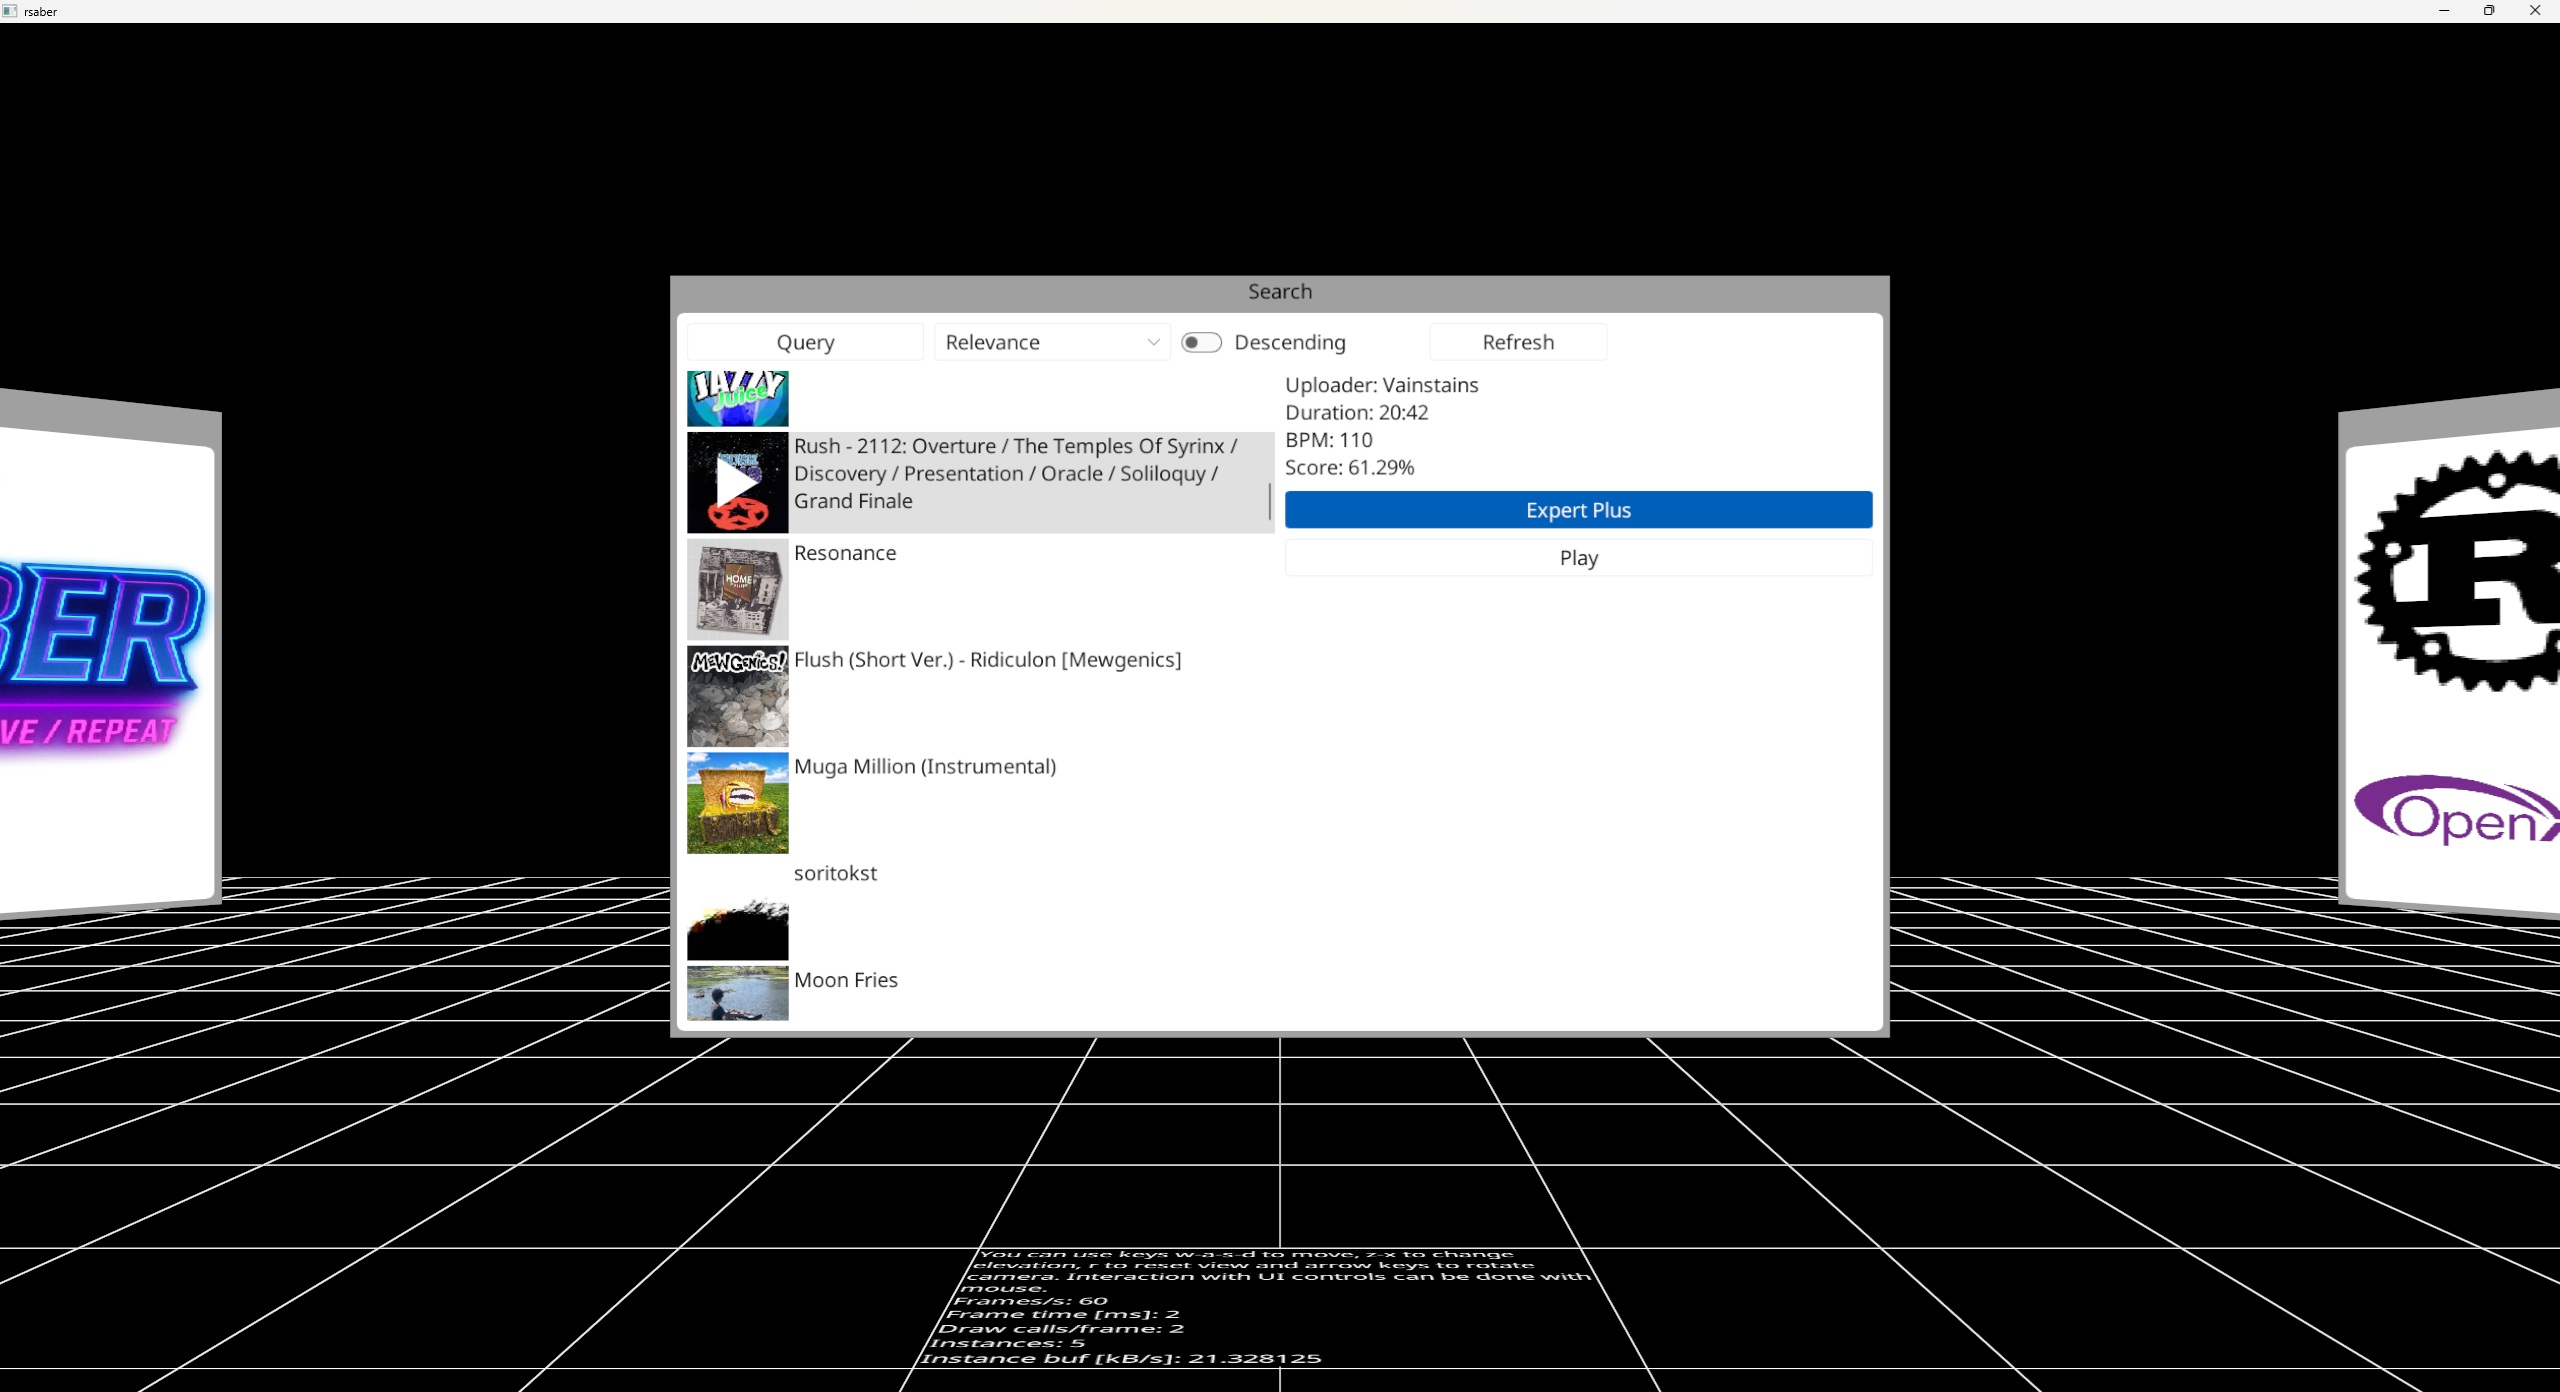
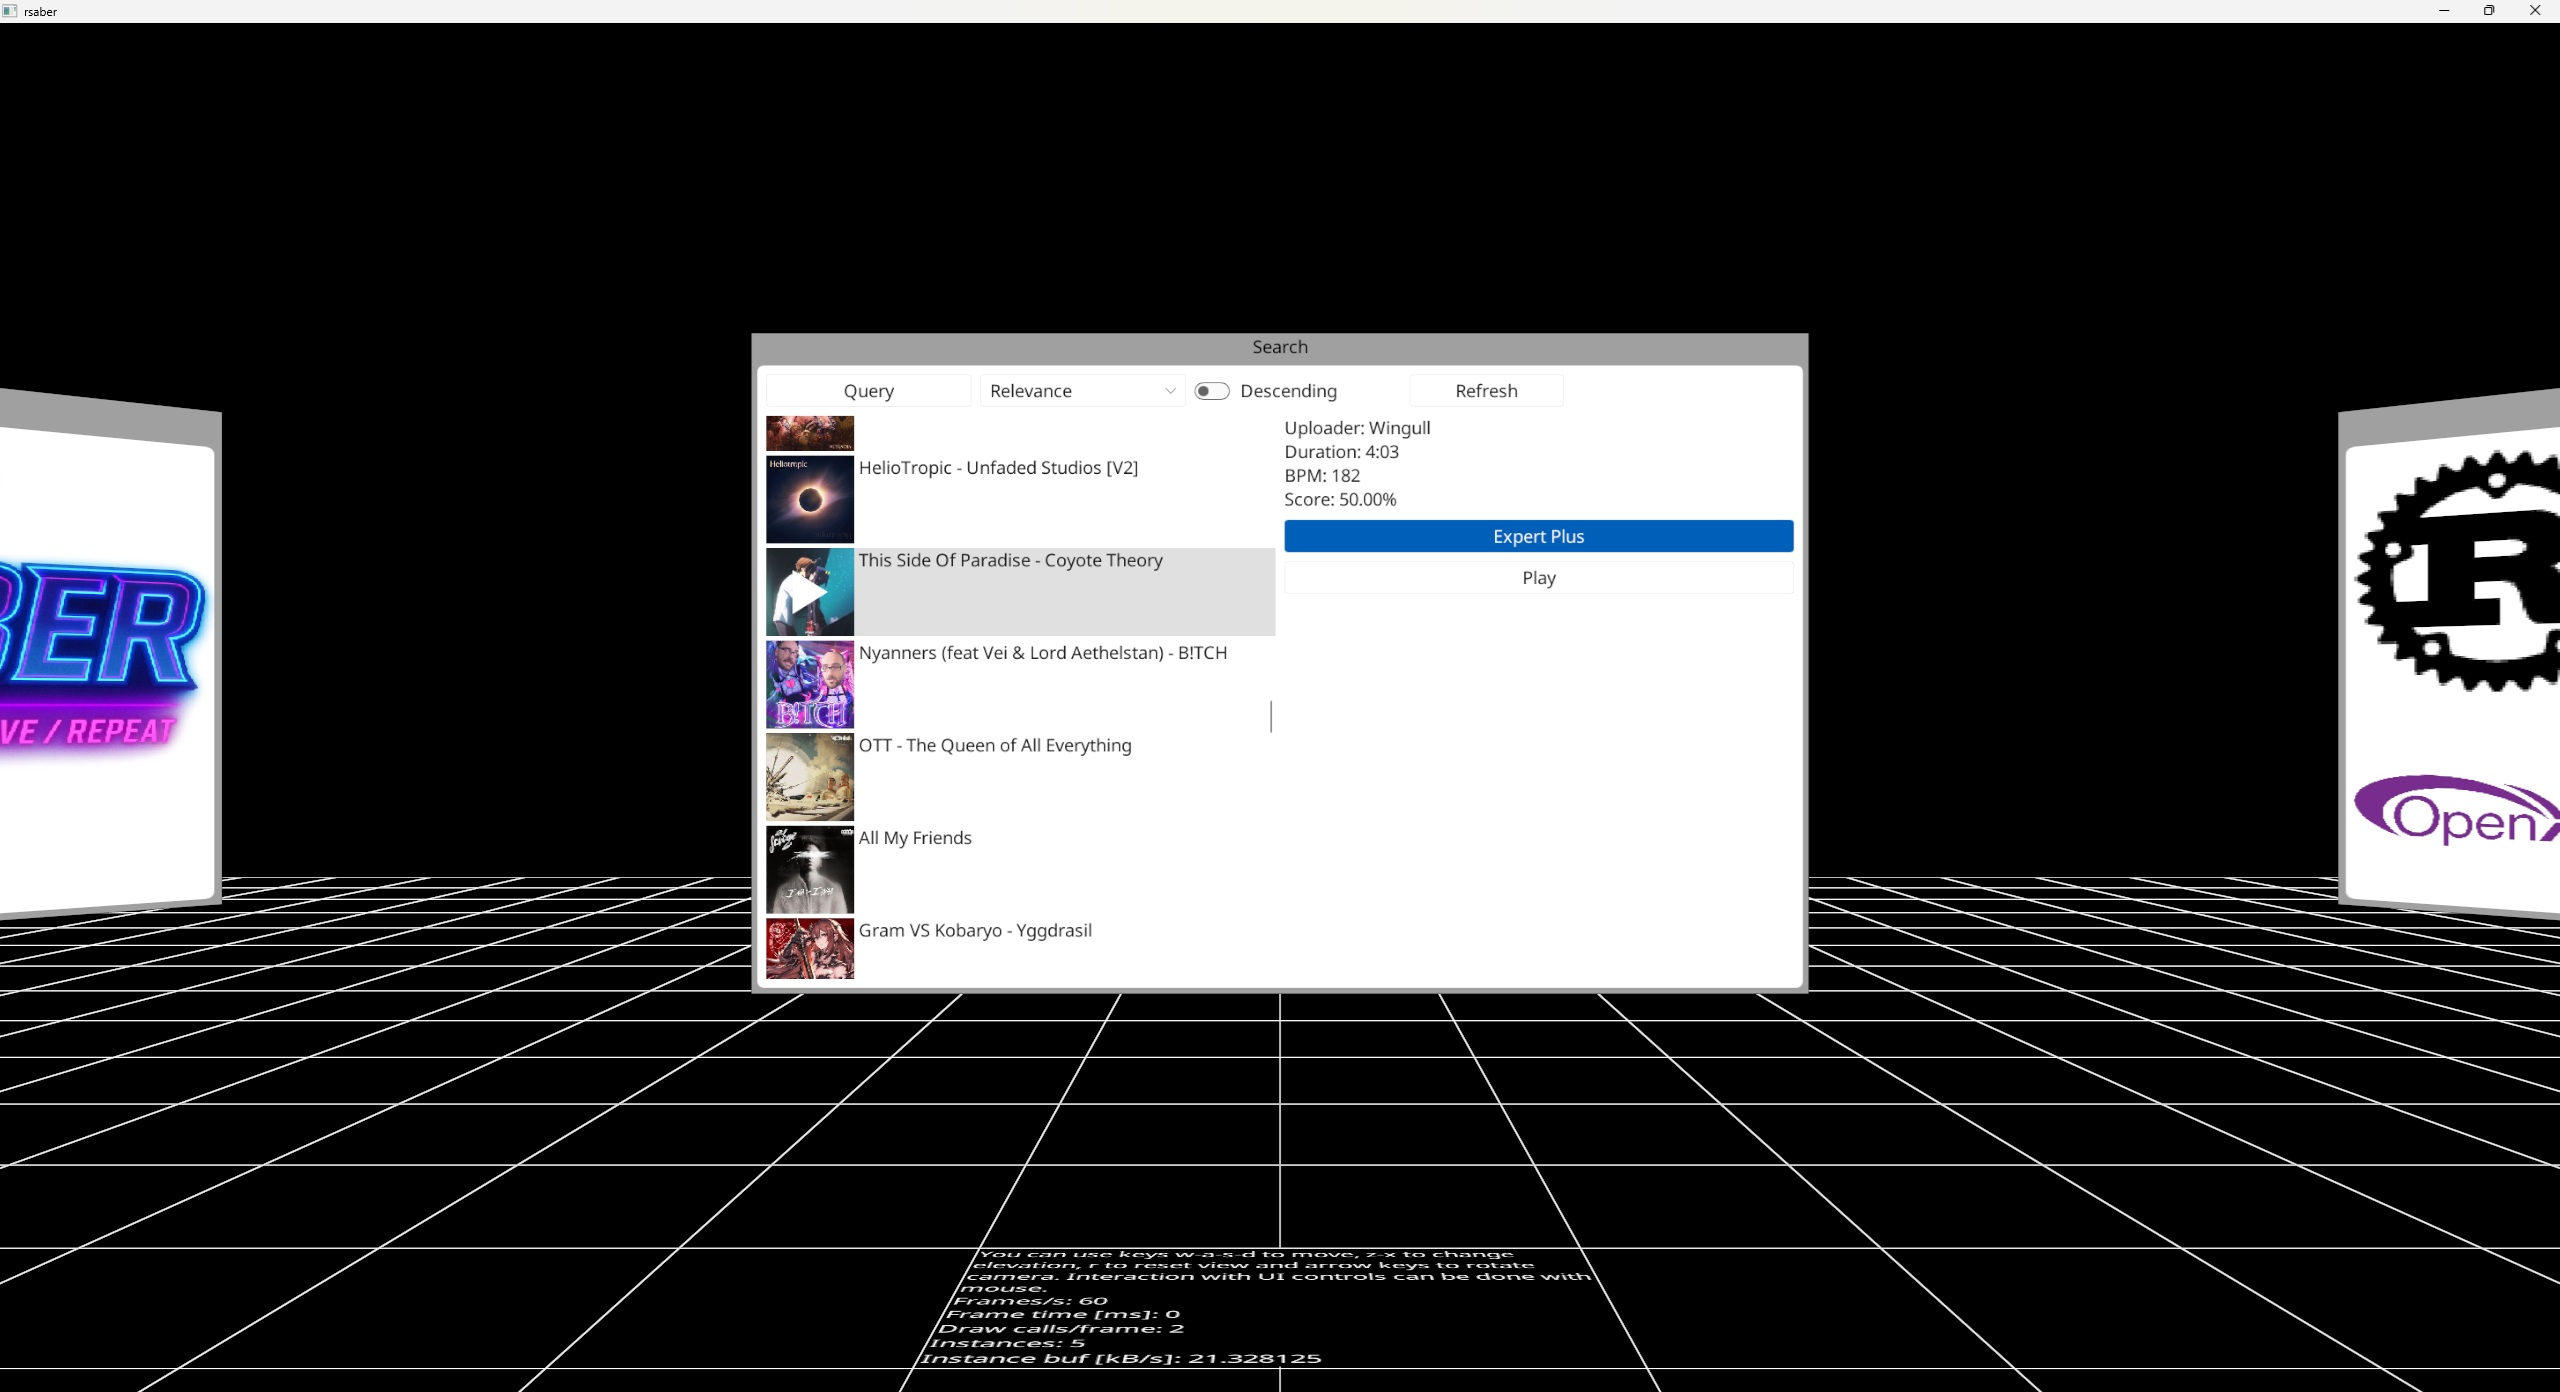
Positioning changes.

Changed region(s): [[0.25, 0.1853, 0.75, 0.7723]]

diff --git a/lib/src/scene/repo/menu.rs b/lib/src/scene/repo/menu.rs
@@ -177,7 +177,7 @@ impl Menu {
 
         let vkbd_window = model_reg.create(window_param);
         vkbd_window.set_scale(2.5, 0.8);
-        vkbd_window.set_pos(&Vector3::new(0.0, 2.5, 1.0));
+        vkbd_window.set_pos(&Vector3::new(0.0, 3.0, 0.75));
         vkbd_window.set_rot(&Quaternion::from_angle_x(Deg(-45.0 / 2.0)));
 
         // Setup about by window.
@@ -494,7 +494,7 @@ impl Menu {
                         let mut difficulty_int_active_opt = None;
 
                         if let Some(active_info) = &search_window_state.active_info_opt {
-                            let difficulty_index = window.get_difficulty_index() as usize;
+                            let difficulty_index = window.get_difficulty_index();
                             let item = model.row_data(active_info.item_index).expect("Item expected");
                             let difficulty_ints: Box<_> = item.difficulty_ints.iter().collect();
 
@@ -502,7 +502,7 @@ impl Menu {
                             // difficulty_index is still set. Check if we have at least one difficulty.
 
                             if !difficulty_ints.is_empty() {
-                                difficulty_int_active_opt = Some(difficulty_ints[difficulty_index]);
+                                difficulty_int_active_opt = Some(difficulty_ints[difficulty_index as usize]);
                             }
 
                             if item_index_selected == active_info.item_index {
@@ -570,18 +570,19 @@ impl Menu {
 
                     move || { // TODO: use window->detail_item instead of active_info.item_index?
                         let window = window_weak.unwrap();
-                        let search_window_state = search_window_state_mutex.lock().unwrap();
-                        let active_info = search_window_state.active_info_opt.as_ref().expect("Active expected");
+                        let item_index = {
+                            let search_window_state = search_window_state_mutex.lock().unwrap();
+                            let active_info = search_window_state.active_info_opt.as_ref().expect("Active expected");
+                            active_info.item_index
+                        };
 
                         let model = window.get_items();
-                        let item = model.row_data(active_info.item_index).expect("Item expected");
+                        let item = model.row_data(item_index).expect("Item expected");
 
                         let difficulty_index = window.get_difficulty_index();
                         let difficulty_ints: Box<_> = item.difficulty_ints.iter().collect();
                         let difficulty_int = difficulty_ints[difficulty_index as usize];
                         let difficulty: SongDifficulty = difficulty_int.try_into().unwrap();
-
-                        let download_url: String = item.download_url.clone().into();
 
                         window.set_mode(SearchWindowMode::Message);
                         window.set_message("Downloading...".into());
@@ -590,6 +591,7 @@ impl Menu {
 
                         // Submit song zip fetch.
 
+                        let download_url: String = item.download_url.clone().into();
                         let url = Url::parse(&download_url).expect("Invalid url");
 
                         let handle = net_manager_exec.submit(SongZipRequest::new(url), { // TODO: cache?
@@ -663,7 +665,7 @@ impl Menu {
         let search_window = model_reg.create(window_param);
         search_window.set_visible(true);
         search_window.set_scale(4.8, 3.0);
-        search_window.set_pos(&Vector3::new(0.0, 4.0, 2.0));
+        search_window.set_pos(&Vector3::new(0.0, 5.0, 2.0));
 
         // Setup powered by window.
 
@@ -750,14 +752,14 @@ impl Menu {
             },
             UpdateItemOp::PreviewStop => {
                 let active_info = state.active_info_opt.as_mut().expect("Active expected");
-                active_info.preview_active = false;
-
                 let item_index = active_info.item_index;
                 let mut item = model.row_data(item_index).expect("Item expected");
 
                 item.preview_active = false;
 
                 model.set_row_data(item_index, item);
+
+                active_info.preview_active = false;
             },
         }
     }

diff --git a/lib/src/output/xr.rs b/lib/src/output/xr.rs
@@ -461,7 +461,7 @@ impl XROutput {
 
         let mut xr_ok = false;
 
-        for (interaction_profile, aim, click, scroll_opt, haptic) in [
+        for (interaction_profile, aim, click, scroll_opt, haptic) in [ // TODO: use const structs here
             (
                 "/khr/simple_controller",
                 "/input/aim/pose",
